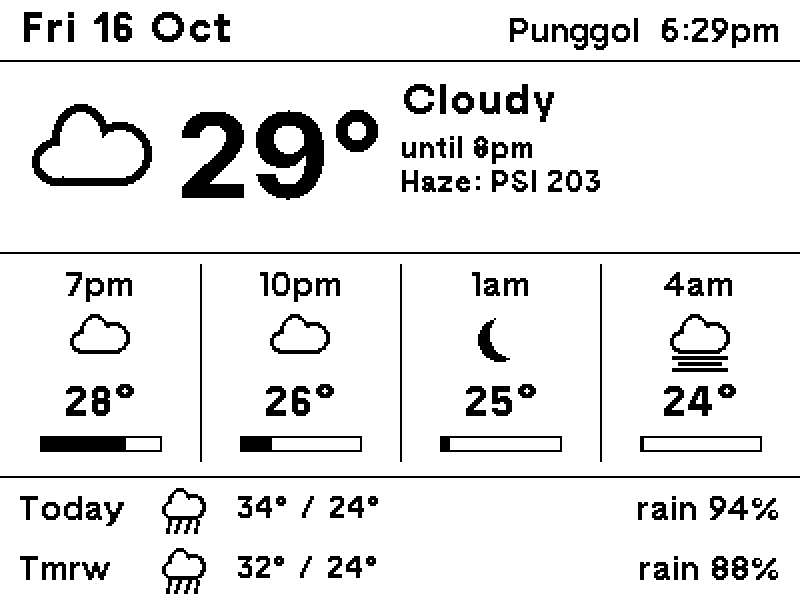
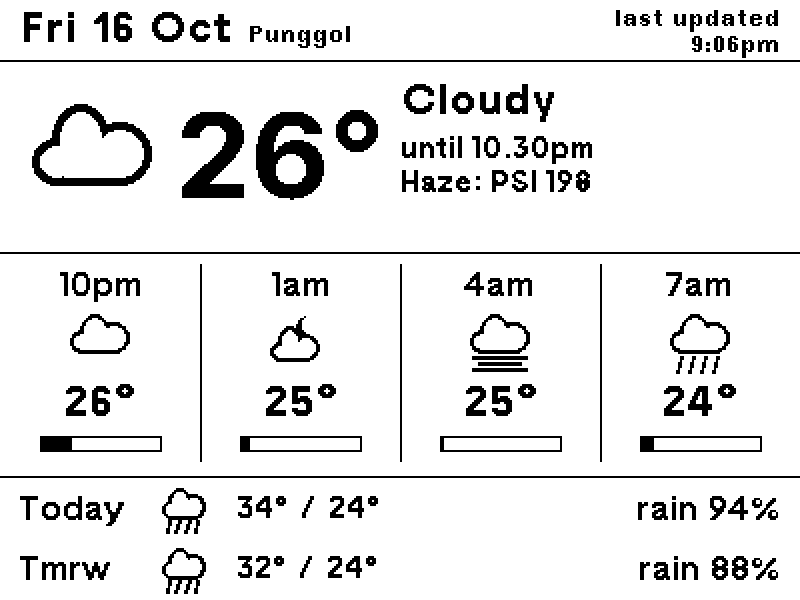
Header: small 'last updated' stamp instead of a clock-like time
Date + place on the left; two-line 'last updated / h:mm' in TRMNL12 on the
right so it isn't mistaken for a live clock. README and DEVICE.md explain
why a live clock only exists in the firmware's own clock mode. Screenshots
regenerated.

diff --git a/screens/common.py b/screens/common.py
@@ -154,16 +154,19 @@ class Forecast:
 
 
 def canvas(fc: Forecast, battery_mv: int | None) -> tuple[Image.Image, ImageDraw.ImageDraw]:
-    """White canvas with the shared header: date left; place, time and (only if low) battery right,
-    both on one baseline."""
+    """White canvas with the shared header: date + place (+ BATT LOW) on the left, and a small
+    two-line "last updated / 6:29pm" stamp on the right. The stamp is deliberately tiny so it isn't
+    mistaken for a live clock (the panel only changes when a push happens)."""
     img = Image.new("RGB", (W, H), "white")
     d = ImageDraw.Draw(img)
     d.fontmode = "1"  # no anti-aliasing anywhere: pure black/white glyphs
-    baseline = 21
-    d.text((10, baseline), fc.now.strftime("%a %-d %b"), font=bold(21), fill="black", anchor="ls")
-    right = f"{fc.place}  {hour(fc.now)[:-2]}:{fc.now:%M}{hour(fc.now)[-2:]}"
-    if battery_mv and battery_level(battery_mv)[1] == "LOW":
-        right = "BATT LOW  " + right
-    draw_text(d, (W - 10, baseline), right, medium(16), anchor="rs")
+    baseline, small = 21, medium(12)  # TRMNL12: the smallest font that stays readable on the panel
+    date = fc.now.strftime("%a %-d %b")
+    d.text((10, baseline), date, font=bold(21), fill="black", anchor="ls")
+    place = fc.place + ("  BATT LOW" if battery_mv and battery_level(battery_mv)[1] == "LOW" else "")
+    draw_text(d, (10 + d.textlength(date, font=bold(21)) + 8, baseline), place, small, anchor="ls")
+    stamp = f"{hour(fc.now)[:-2]}:{fc.now:%M}{hour(fc.now)[-2:]}"
+    draw_text(d, (W - 10, 13), "last updated", small, anchor="rs")
+    draw_text(d, (W - 10, 26), stamp, small, anchor="rs")
     d.line((0, 30, W, 30), fill="black")
     return img, d

diff --git a/README.md b/README.md
@@ -21,7 +21,7 @@ Switch with `uv run python -m epd.cli use <name>` (then `--push`, or wait for th
 | ![detailed layout](docs/images/detailed.png) | |
 | Everything at once; too cluttered to read on the panel, kept for reference | |
 
-Exact 1-bit frames as sent to the panel, shown at 2×, with live Punggol data from a hazy, showery October evening. Regenerate with `uv run python tools/screenshots.py`.
+Exact 1-bit frames as sent to the panel, shown at 2×, with live Punggol data from a hazy October evening. Regenerate with `uv run python tools/screenshots.py`.
 
 ## Quick start
 
@@ -50,7 +50,18 @@ Switch with `epd.cli use <name>`. The choice is stored in [`config.toml`](config
 | `proverb` **(default)** | Same structure as `note`, but the main block spans 4 of 6 columns and the 2/6 panel shows the **proverb of the day** from [`data/proverbs.json`](data/proverbs.json) with its origin | Calm, no network beyond the weather |
 | `detailed` | The original dense screen: now block with RH/wind/PSI, 8 hourly slots 2 h apart, Today/Tmrw cards with rain mm, UV, sunset | Reference only. Too dense to read on the panel |
 
-The shared header on `glance` and `rain`: date left; place and time right; `BATT LOW` only when the battery is low.
+The shared header (`proverb`, `note`, `glance`, `rain`): date with the place beside it (plus `BATT LOW` only when the battery is low) on the left, and a small two-line **"last updated / 9:04pm"** stamp on the right in the smallest readable font (TRMNL12). It's deliberately tiny so it isn't read as a live clock.
+
+### Why there's no live clock
+
+The panel only changes when something pushes a new frame, so the time on our dashboards is the time of the last update, not "now". A clock that ticks every minute is only possible in the firmware's own **clock mode** (`SET_TIME` with mode 2), which comes with trade-offs:
+
+- **It's the firmware's screen, not ours.** Clock mode draws a built-in date/clock layout. It can't be combined with a pushed dashboard: arming it replaces our picture within a minute.
+- **Every minute is a full refresh.** The whole panel flashes each minute (about 1,440 refreshes a day). Upstream warns against leaving it on long-term; the battery lasts roughly weeks to a couple of months instead of much longer.
+- **Partial refresh (redraw only a small clock box) needs new firmware.** One fork, [zhyiheihei/EPD-nRF5](https://github.com/zhyiheihei/EPD-nRF5), adds a ~4 s partial refresh for a 7.5" panel. This unit runs a non-public firmware variant with an unknown update key and no debug probe attached, so flashing custom firmware isn't safe.
+- **Pushing from the Mac every minute isn't practical.** A push takes about 40 s (most of it waiting for the refresh to finish), flashes the whole screen, and keeps Bluetooth busy all day.
+
+So the dashboards show a small "last updated" stamp instead, and the scheduled push (every 30 min) keeps it fresh. See docs/DEVICE.md §6 for the firmware details.
 
 All layouts share one data fetch (`screens/weather.py: fetch`): Open-Meteo (current, hourly, daily) + NEA (2-hour area nowcast, 24-h forecast, 4-day outlook, PSI for the nearest region).
 
@@ -157,7 +168,7 @@ The display can't detect staleness itself. But the firmware redraws its own cale
 - The condition in `glance` wraps onto two lines at 21 px instead of shrinking, so it stays the most prominent text in its column; NEA's "(Day)/(Night)" suffix is dropped (the icon shows it).
 - **Alignment is computed, not eyeballed:** `text_mid` centres text on its cap height, `text_top` puts the cap top on a line, `icon_mid` centres icon boxes. Rows share a centre line, and the header shares a baseline.
 - Weather first. Air quality appears only when PSI > 100. Battery appears only when LOW.
-- Header is black on white with a rule underneath. White-on-black was hard to read.
+- Header is black on white with a rule underneath (white-on-black was hard to read). The update time is a small two-line "last updated" stamp, not a clock.
 - Divider lines are 1 px.
 - Battery is **OK / LOW**, never a percentage: the firmware measures the ~3.0 V regulated rail (≈2.92 V), not the 1100 mAh Li-ion cell. LOW below 2.85 V.
 - In `glance`, the big temperature is vertically centred on the weather icon; the condition column is top-aligned beside it.
@@ -177,7 +188,7 @@ The display can't detect staleness itself. But the firmware redraws its own cale
 - [ ] Retest red uploads (rain bars or haze alert in red)
 - [ ] Rotating screens: agenda (macOS Calendar / ICS), month calendar, fun slot
 - [ ] Haze alert screen: full-screen warning if PSI > 300
-- [ ] Clock options: firmware clock (flashes every minute, battery weeks to months), a big-time variant pushed every 15 min, or clock mode at night only
+- [ ] Clock options (see "Why there's no live clock"): firmware clock mode at night only, or partial refresh if custom firmware ever becomes safe to flash
 - [ ] Fun slots: bus/MRT arrivals (LTA DataMall key), dithered photo, xkcd, GitHub contributions, quote of the day, a Claude-written daily summary
 - [ ] Investigate the firmware's 15 image "slots": could the device rotate stored images on its own?
 - [ ] Measure clock drift over a day (log `t=` vs host time)

diff --git a/docs/DEVICE.md b/docs/DEVICE.md
@@ -145,9 +145,19 @@ In both cases a normal push afterwards worked fine, so the probes did no lasting
 | --- | --- | --- |
 | Picture (0) | Shows last uploaded image. Firmware never redraws on its own | [verified] |
 | Calendar (1) | Firmware-rendered month calendar (Chinese lunar dates, solar terms, holidays); uses red. Redraws at **local midnight** | [verified] red / [source] midnight |
-| Clock (2) | Firmware-rendered clock + date. **Full refresh every minute** (flashes, drains battery) | [source] |
+| Clock (2) | Firmware-rendered clock + date. **Full refresh every minute** (flashes, drains battery). Upstream's web tool warns before enabling it that clock mode uses full refreshes and isn't recommended long-term. It can't show an uploaded picture: the minute timer redraws the built-in layout | [source] |
 | Time-sync hint | If the RTC reads January 2025 (never set), built-in views show a "sync time" tip | [source] |
 | After reboot | Firmware redraws the current mode immediately; after a watchdog reset it forces calendar | [source] |
+
+### 6.0 Live clock on our own dashboard: not possible with this firmware
+
+| Finding | Status |
+| --- | --- |
+| The only self-updating time is clock mode (built-in layout, full refresh every minute) | [source] |
+| Upstream "partial" code (`PTIN`/`PTL`/`PTOUT` in UC81xx.c) only windows RAM *writes*; refreshes are always full-screen | [source] |
+| [zhyiheihei/EPD-nRF5](https://github.com/zhyiheihei/EPD-nRF5) adds `UC81xx_RefreshPartial` (PTIN + `PT_SCAN=1` window + DRF, ~4 s waveform, BUSY not released on their BWR panel) behind a custom dashboard protocol (`0x40`–`0x46`). It's custom firmware for a 7.5" UC8179, so not usable here without flashing | [online] |
+| Partial refresh via raw `SEND_CMD`/`SEND_DATA` from the host is untested on this unit (our earlier raw probes were invalidated by the cut-short-refresh bug, §5.3) | [open] |
+| Decision (owner): no live clock. The dashboards show a small "last updated" stamp instead | — |
 
 ### 6.1 Clock
 
